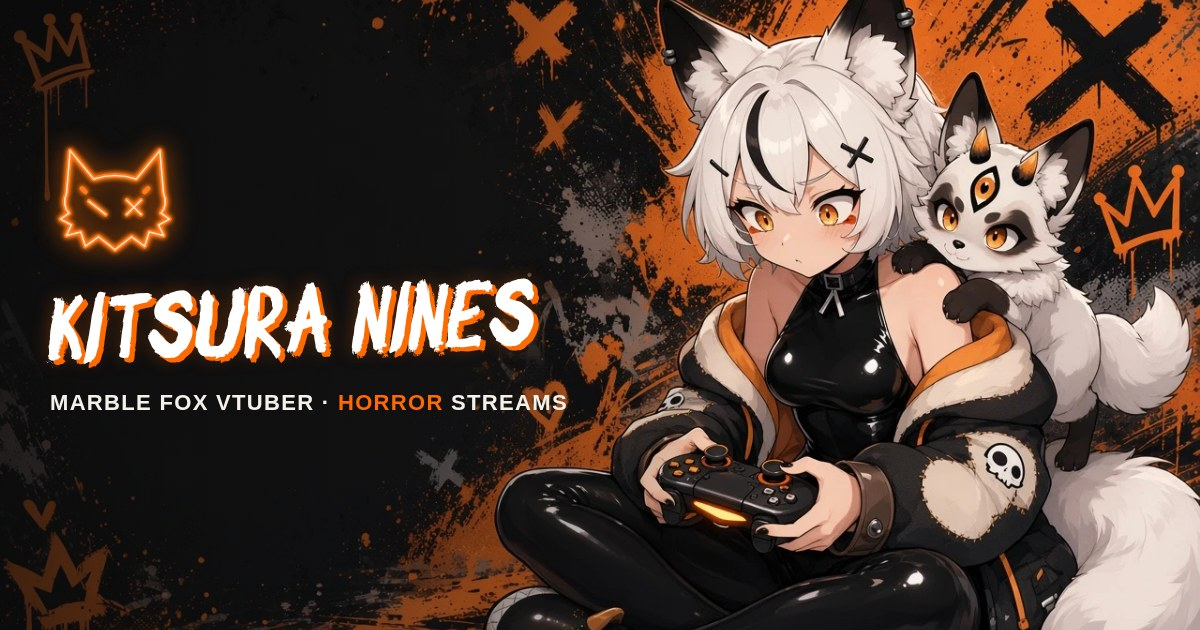
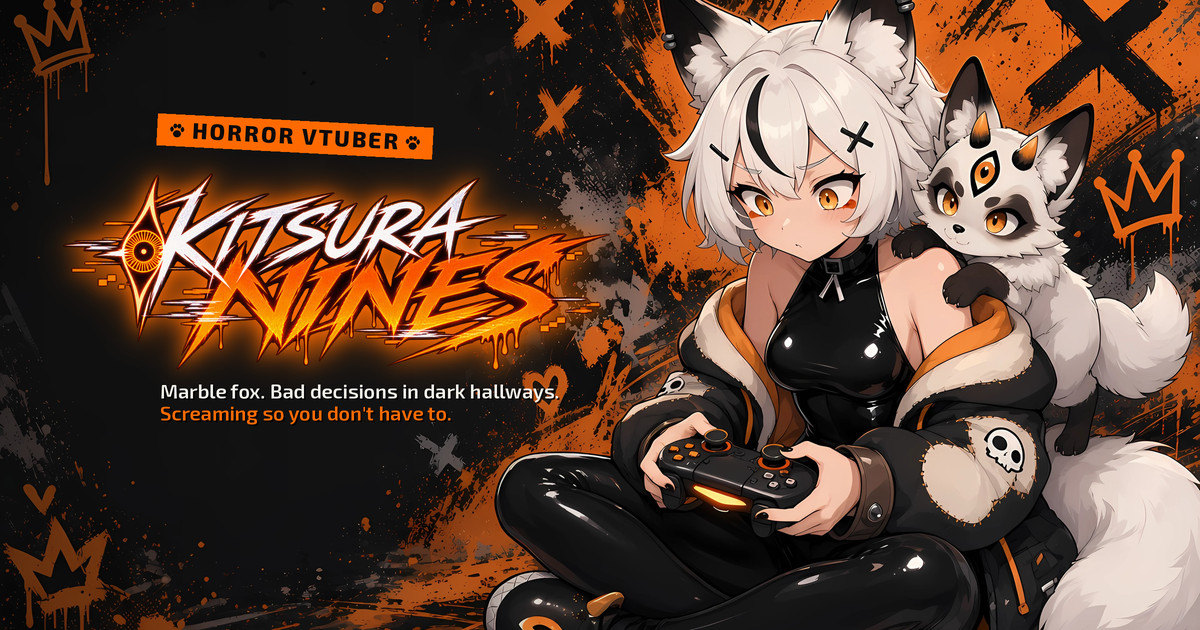
Update link preview image to the current homepage hero

diff --git a/index.html b/index.html
@@ -1,5 +1,5 @@
 <!doctype html><html lang="en"><head><meta charset="utf-8"><meta name="viewport" content="width=device-width,initial-scale=1,viewport-fit=cover">
-<title>Kitsura Nines · Horror VTuber</title><meta name="description" content="Kitsura Nines, a marble fox VTuber who streams horror games. Schedule, links, Discord, games and lore."><meta property="og:type" content="website"><meta property="og:site_name" content="Kitsura Nines"><meta property="og:title" content="Kitsura Nines · Horror VTuber"><meta property="og:description" content="Kitsura Nines, a marble fox VTuber who streams horror games. Schedule, links, Discord, games and lore."><meta property="og:url" content="https://kitsuranines.com/"><meta property="og:image" content="https://kitsuranines.com/img/og.jpg?v=1"><meta property="og:image:width" content="1200"><meta property="og:image:height" content="630"><meta property="og:image:alt" content="Kitsura Nines and Roger"><meta name="twitter:card" content="summary_large_image"><meta name="twitter:site" content="@KitsuraNines"><meta name="twitter:title" content="Kitsura Nines · Horror VTuber"><meta name="twitter:description" content="Kitsura Nines, a marble fox VTuber who streams horror games. Schedule, links, Discord, games and lore."><meta name="twitter:image" content="https://kitsuranines.com/img/og.jpg?v=1"><meta name="theme-color" content="#ff6a00">
+<title>Kitsura Nines · Horror VTuber</title><meta name="description" content="Kitsura Nines, a marble fox VTuber who streams horror games. Schedule, links, Discord, games and lore."><meta property="og:type" content="website"><meta property="og:site_name" content="Kitsura Nines"><meta property="og:title" content="Kitsura Nines · Horror VTuber"><meta property="og:description" content="Kitsura Nines, a marble fox VTuber who streams horror games. Schedule, links, Discord, games and lore."><meta property="og:url" content="https://kitsuranines.com/"><meta property="og:image" content="https://kitsuranines.com/img/og.jpg?v=2"><meta property="og:image:width" content="1200"><meta property="og:image:height" content="630"><meta property="og:image:alt" content="Kitsura Nines and Roger"><meta name="twitter:card" content="summary_large_image"><meta name="twitter:site" content="@KitsuraNines"><meta name="twitter:title" content="Kitsura Nines · Horror VTuber"><meta name="twitter:description" content="Kitsura Nines, a marble fox VTuber who streams horror games. Schedule, links, Discord, games and lore."><meta name="twitter:image" content="https://kitsuranines.com/img/og.jpg?v=2"><meta name="theme-color" content="#ff6a00">
 
 <link rel="icon" type="image/svg+xml" href="img/mark.svg?v=4"><link rel="apple-touch-icon" href="img/apple-touch-icon.png">
 <link rel="preconnect" href="https://fonts.googleapis.com"><link rel="preconnect" href="https://fonts.gstatic.com" crossorigin>

diff --git a/404.html b/404.html
@@ -1,5 +1,5 @@
 <!doctype html><html lang="en"><head><base href="/"><meta charset="utf-8"><meta name="robots" content="noindex"><meta name="viewport" content="width=device-width,initial-scale=1,viewport-fit=cover">
-<title>Lost in the static · Kitsura Nines</title><meta name="description" content="Kitsura Nines, a marble fox VTuber who streams horror games. Schedule, links, Discord, games and lore."><meta property="og:type" content="website"><meta property="og:site_name" content="Kitsura Nines"><meta property="og:title" content="Kitsura Nines · Horror VTuber"><meta property="og:description" content="Kitsura Nines, a marble fox VTuber who streams horror games. Schedule, links, Discord, games and lore."><meta property="og:image" content="https://kitsuranines.com/img/og.jpg?v=1"><meta property="og:image:width" content="1200"><meta property="og:image:height" content="630"><meta property="og:image:alt" content="Kitsura Nines and Roger"><meta name="twitter:card" content="summary_large_image"><meta name="twitter:site" content="@KitsuraNines"><meta name="twitter:title" content="Kitsura Nines · Horror VTuber"><meta name="twitter:description" content="Kitsura Nines, a marble fox VTuber who streams horror games. Schedule, links, Discord, games and lore."><meta name="twitter:image" content="https://kitsuranines.com/img/og.jpg?v=1"><meta name="theme-color" content="#ff6a00">
+<title>Lost in the static · Kitsura Nines</title><meta name="description" content="Kitsura Nines, a marble fox VTuber who streams horror games. Schedule, links, Discord, games and lore."><meta property="og:type" content="website"><meta property="og:site_name" content="Kitsura Nines"><meta property="og:title" content="Kitsura Nines · Horror VTuber"><meta property="og:description" content="Kitsura Nines, a marble fox VTuber who streams horror games. Schedule, links, Discord, games and lore."><meta property="og:image" content="https://kitsuranines.com/img/og.jpg?v=2"><meta property="og:image:width" content="1200"><meta property="og:image:height" content="630"><meta property="og:image:alt" content="Kitsura Nines and Roger"><meta name="twitter:card" content="summary_large_image"><meta name="twitter:site" content="@KitsuraNines"><meta name="twitter:title" content="Kitsura Nines · Horror VTuber"><meta name="twitter:description" content="Kitsura Nines, a marble fox VTuber who streams horror games. Schedule, links, Discord, games and lore."><meta name="twitter:image" content="https://kitsuranines.com/img/og.jpg?v=2"><meta name="theme-color" content="#ff6a00">
 
 <link rel="icon" type="image/svg+xml" href="img/mark.svg?v=4"><link rel="apple-touch-icon" href="img/apple-touch-icon.png">
 <link rel="preconnect" href="https://fonts.googleapis.com"><link rel="preconnect" href="https://fonts.gstatic.com" crossorigin>

diff --git a/apps.html b/apps.html
@@ -1,5 +1,5 @@
 <!doctype html><html lang="en"><head><meta charset="utf-8"><meta name="viewport" content="width=device-width,initial-scale=1,viewport-fit=cover">
-<title>Play · Kitsura Nines</title><meta name="description" content="Desktop Roger, the Magic 8 Ball, and games made by friends of Kitsura Nines."><meta property="og:type" content="website"><meta property="og:site_name" content="Kitsura Nines"><meta property="og:title" content="Play · Kitsura Nines"><meta property="og:description" content="Desktop Roger, the Magic 8 Ball, and games made by friends of Kitsura Nines."><meta property="og:url" content="https://kitsuranines.com/apps.html"><meta property="og:image" content="https://kitsuranines.com/img/og.jpg?v=1"><meta property="og:image:width" content="1200"><meta property="og:image:height" content="630"><meta property="og:image:alt" content="Kitsura Nines and Roger"><meta name="twitter:card" content="summary_large_image"><meta name="twitter:site" content="@kitsuranines"><meta name="twitter:title" content="Play · Kitsura Nines"><meta name="twitter:description" content="Desktop Roger, the Magic 8 Ball, and games made by friends of Kitsura Nines."><meta name="twitter:image" content="https://kitsuranines.com/img/og.jpg?v=1"><meta name="theme-color" content="#ff6a00">
+<title>Play · Kitsura Nines</title><meta name="description" content="Desktop Roger, the Magic 8 Ball, and games made by friends of Kitsura Nines."><meta property="og:type" content="website"><meta property="og:site_name" content="Kitsura Nines"><meta property="og:title" content="Play · Kitsura Nines"><meta property="og:description" content="Desktop Roger, the Magic 8 Ball, and games made by friends of Kitsura Nines."><meta property="og:url" content="https://kitsuranines.com/apps.html"><meta property="og:image" content="https://kitsuranines.com/img/og.jpg?v=2"><meta property="og:image:width" content="1200"><meta property="og:image:height" content="630"><meta property="og:image:alt" content="Kitsura Nines and Roger"><meta name="twitter:card" content="summary_large_image"><meta name="twitter:site" content="@kitsuranines"><meta name="twitter:title" content="Play · Kitsura Nines"><meta name="twitter:description" content="Desktop Roger, the Magic 8 Ball, and games made by friends of Kitsura Nines."><meta name="twitter:image" content="https://kitsuranines.com/img/og.jpg?v=2"><meta name="theme-color" content="#ff6a00">
 
 <link rel="icon" type="image/svg+xml" href="img/mark.svg?v=4"><link rel="apple-touch-icon" href="img/apple-touch-icon.png">
 <link rel="preconnect" href="https://fonts.googleapis.com"><link rel="preconnect" href="https://fonts.gstatic.com" crossorigin>

diff --git a/cameos.html b/cameos.html
@@ -1,5 +1,5 @@
 <!doctype html><html lang="en"><head><meta charset="utf-8"><meta name="viewport" content="width=device-width,initial-scale=1,viewport-fit=cover">
-<title>Cameos · Kitsura Nines</title><meta name="description" content="Friends’ videos Kitsura Nines has appeared in."><meta property="og:type" content="website"><meta property="og:site_name" content="Kitsura Nines"><meta property="og:title" content="Cameos · Kitsura Nines"><meta property="og:description" content="Friends’ videos Kitsura Nines has appeared in."><meta property="og:url" content="https://kitsuranines.com/cameos.html"><meta property="og:image" content="https://kitsuranines.com/img/og.jpg?v=1"><meta property="og:image:width" content="1200"><meta property="og:image:height" content="630"><meta property="og:image:alt" content="Kitsura Nines and Roger"><meta name="twitter:card" content="summary_large_image"><meta name="twitter:site" content="@KitsuraNines"><meta name="twitter:title" content="Cameos · Kitsura Nines"><meta name="twitter:description" content="Friends’ videos Kitsura Nines has appeared in."><meta name="twitter:image" content="https://kitsuranines.com/img/og.jpg?v=1"><meta name="theme-color" content="#ff6a00">
+<title>Cameos · Kitsura Nines</title><meta name="description" content="Friends’ videos Kitsura Nines has appeared in."><meta property="og:type" content="website"><meta property="og:site_name" content="Kitsura Nines"><meta property="og:title" content="Cameos · Kitsura Nines"><meta property="og:description" content="Friends’ videos Kitsura Nines has appeared in."><meta property="og:url" content="https://kitsuranines.com/cameos.html"><meta property="og:image" content="https://kitsuranines.com/img/og.jpg?v=2"><meta property="og:image:width" content="1200"><meta property="og:image:height" content="630"><meta property="og:image:alt" content="Kitsura Nines and Roger"><meta name="twitter:card" content="summary_large_image"><meta name="twitter:site" content="@KitsuraNines"><meta name="twitter:title" content="Cameos · Kitsura Nines"><meta name="twitter:description" content="Friends’ videos Kitsura Nines has appeared in."><meta name="twitter:image" content="https://kitsuranines.com/img/og.jpg?v=2"><meta name="theme-color" content="#ff6a00">
 
 <link rel="icon" type="image/svg+xml" href="img/mark.svg?v=4"><link rel="apple-touch-icon" href="img/apple-touch-icon.png">
 <link rel="preconnect" href="https://fonts.googleapis.com"><link rel="preconnect" href="https://fonts.gstatic.com" crossorigin>

diff --git a/contact/index.html b/contact/index.html
@@ -1,5 +1,5 @@
 <!doctype html><html lang="en"><head><base href="/"><meta charset="utf-8"><meta name="viewport" content="width=device-width,initial-scale=1,viewport-fit=cover">
-<title>Contact · Kitsura Nines</title><meta name="description" content="Business contact for Kitsura Nines: sponsorships, collabs and opportunities."><meta property="og:type" content="website"><meta property="og:site_name" content="Kitsura Nines"><meta property="og:title" content="Contact · Kitsura Nines"><meta property="og:description" content="Business contact for Kitsura Nines: sponsorships, collabs and opportunities."><meta property="og:url" content="https://kitsuranines.com/contact/"><meta property="og:image" content="https://kitsuranines.com/img/og.jpg?v=1"><meta name="twitter:card" content="summary_large_image"><meta name="twitter:site" content="@kitsuranines"><meta name="twitter:image" content="https://kitsuranines.com/img/og.jpg?v=1"><meta name="theme-color" content="#ff6a00"><link rel="canonical" href="https://kitsuranines.com/contact/">
+<title>Contact · Kitsura Nines</title><meta name="description" content="Business contact for Kitsura Nines: sponsorships, collabs and opportunities."><meta property="og:type" content="website"><meta property="og:site_name" content="Kitsura Nines"><meta property="og:title" content="Contact · Kitsura Nines"><meta property="og:description" content="Business contact for Kitsura Nines: sponsorships, collabs and opportunities."><meta property="og:url" content="https://kitsuranines.com/contact/"><meta property="og:image" content="https://kitsuranines.com/img/og.jpg?v=2"><meta name="twitter:card" content="summary_large_image"><meta name="twitter:site" content="@kitsuranines"><meta name="twitter:image" content="https://kitsuranines.com/img/og.jpg?v=2"><meta name="theme-color" content="#ff6a00"><link rel="canonical" href="https://kitsuranines.com/contact/">
 <link rel="icon" type="image/svg+xml" href="img/mark.svg?v=4"><link rel="apple-touch-icon" href="img/apple-touch-icon.png">
 <link rel="preconnect" href="https://fonts.googleapis.com"><link rel="preconnect" href="https://fonts.gstatic.com" crossorigin>
 <link href="https://fonts.googleapis.com/css2?family=Exo+2:wght@400;600;800&family=Metal+Mania&family=Permanent+Marker&display=swap" rel="stylesheet">

diff --git a/guestbook/index.html b/guestbook/index.html
@@ -1,5 +1,5 @@
 <!doctype html><html lang="en"><head><base href="/"><meta charset="utf-8"><meta name="viewport" content="width=device-width,initial-scale=1,viewport-fit=cover">
-<title>Guest Book · Kitsura Nines</title><meta name="description" content="Sign Kitsura Nines' guest book and leave her a little note."><meta property="og:type" content="website"><meta property="og:site_name" content="Kitsura Nines"><meta property="og:title" content="Guest Book · Kitsura Nines"><meta property="og:description" content="Sign Kitsura Nines' guest book and leave her a little note."><meta property="og:url" content="https://kitsuranines.com/guestbook/"><meta property="og:image" content="https://kitsuranines.com/img/og.jpg?v=1"><meta name="twitter:card" content="summary_large_image"><meta name="twitter:site" content="@kitsuranines"><meta name="twitter:image" content="https://kitsuranines.com/img/og.jpg?v=1"><meta name="theme-color" content="#ff6a00"><link rel="canonical" href="https://kitsuranines.com/guestbook/">
+<title>Guest Book · Kitsura Nines</title><meta name="description" content="Sign Kitsura Nines' guest book and leave her a little note."><meta property="og:type" content="website"><meta property="og:site_name" content="Kitsura Nines"><meta property="og:title" content="Guest Book · Kitsura Nines"><meta property="og:description" content="Sign Kitsura Nines' guest book and leave her a little note."><meta property="og:url" content="https://kitsuranines.com/guestbook/"><meta property="og:image" content="https://kitsuranines.com/img/og.jpg?v=2"><meta name="twitter:card" content="summary_large_image"><meta name="twitter:site" content="@kitsuranines"><meta name="twitter:image" content="https://kitsuranines.com/img/og.jpg?v=2"><meta name="theme-color" content="#ff6a00"><link rel="canonical" href="https://kitsuranines.com/guestbook/">
 <link rel="icon" type="image/svg+xml" href="img/mark.svg?v=4"><link rel="apple-touch-icon" href="img/apple-touch-icon.png">
 <link rel="preconnect" href="https://fonts.googleapis.com"><link rel="preconnect" href="https://fonts.gstatic.com" crossorigin>
 <link href="https://fonts.googleapis.com/css2?family=Exo+2:wght@400;600;800&family=Metal+Mania&family=Permanent+Marker&display=swap" rel="stylesheet">
